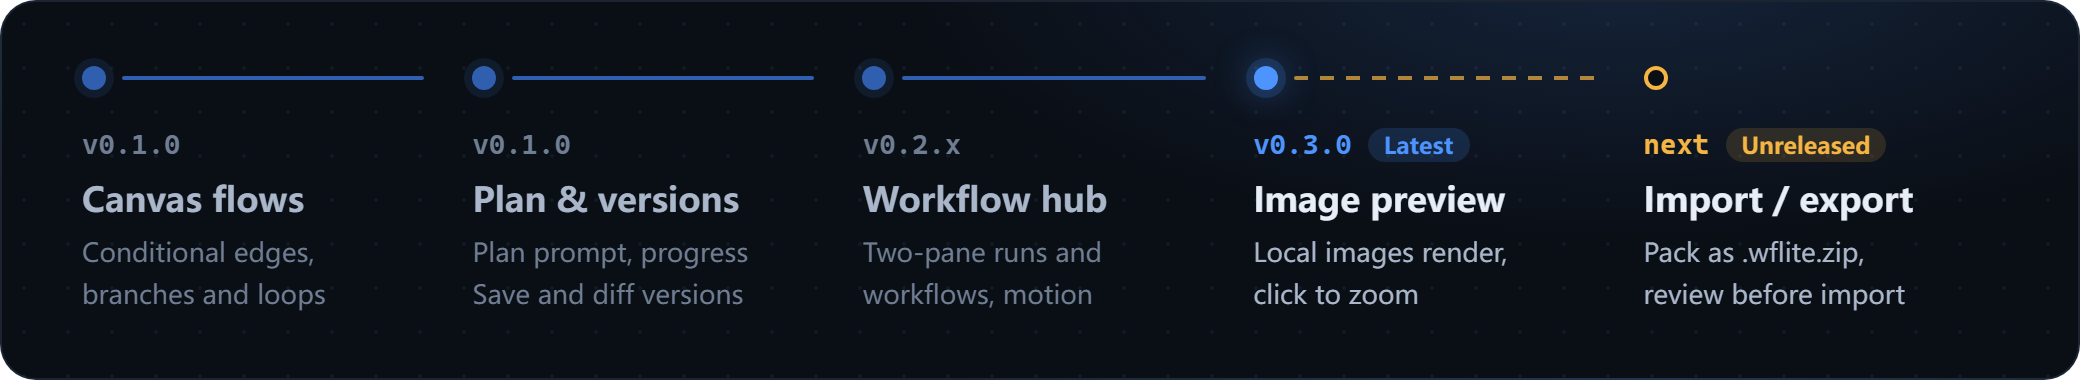
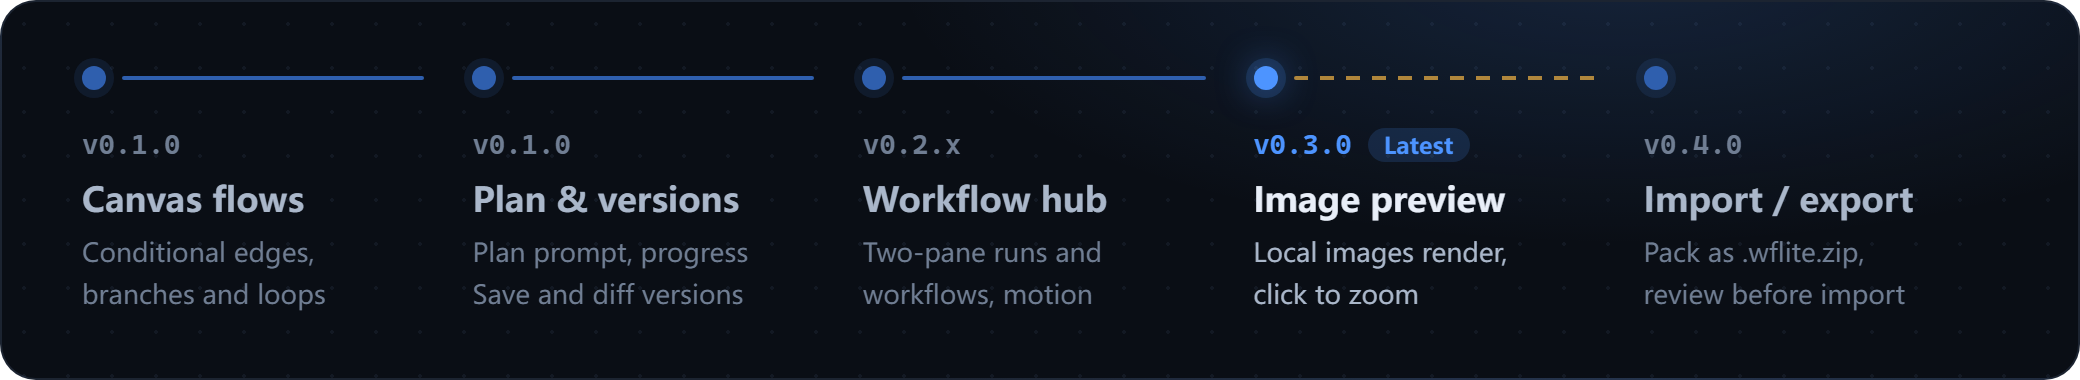
docs(changelog): 落成 0.4.0 - 2026-10-15
工作流导入导出。版本线图里的 next 落成 0.4.0，重跑出图。

diff --git a/CHANGELOG.md b/CHANGELOG.md
@@ -5,7 +5,7 @@
 格式基于 [Keep a Changelog](https://keepachangelog.com/zh-CN/1.1.0/)，
 版本号遵循 [Semantic Versioning](https://semver.org/lang/zh-CN/)。
 
-## [Unreleased]
+## [0.4.0] - 2026-10-15
 
 这一版加了工作流的导入导出。已有的工作流、版本、实例状态文件照旧能读，不导入包就不会写出新东西。
 
